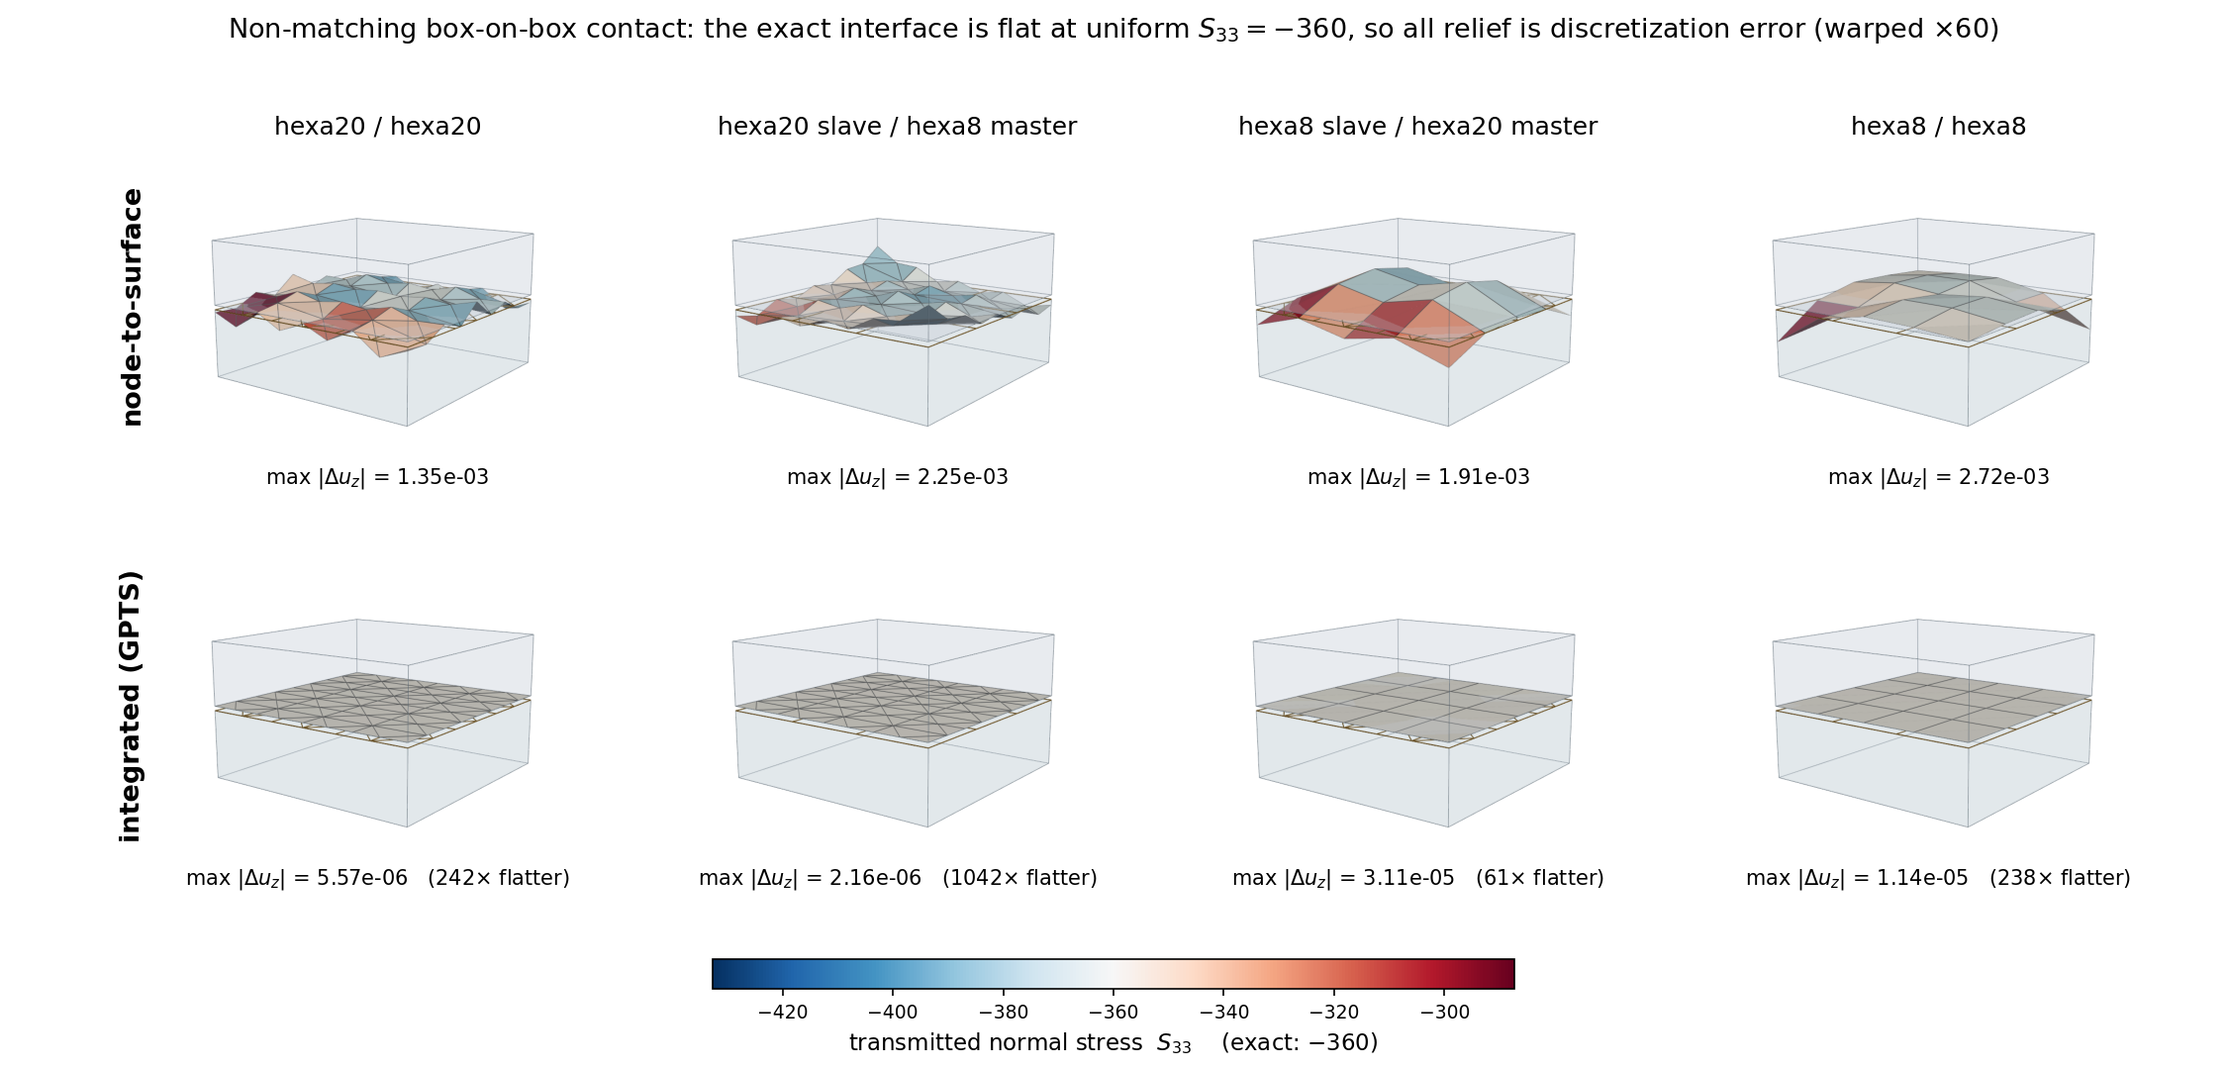
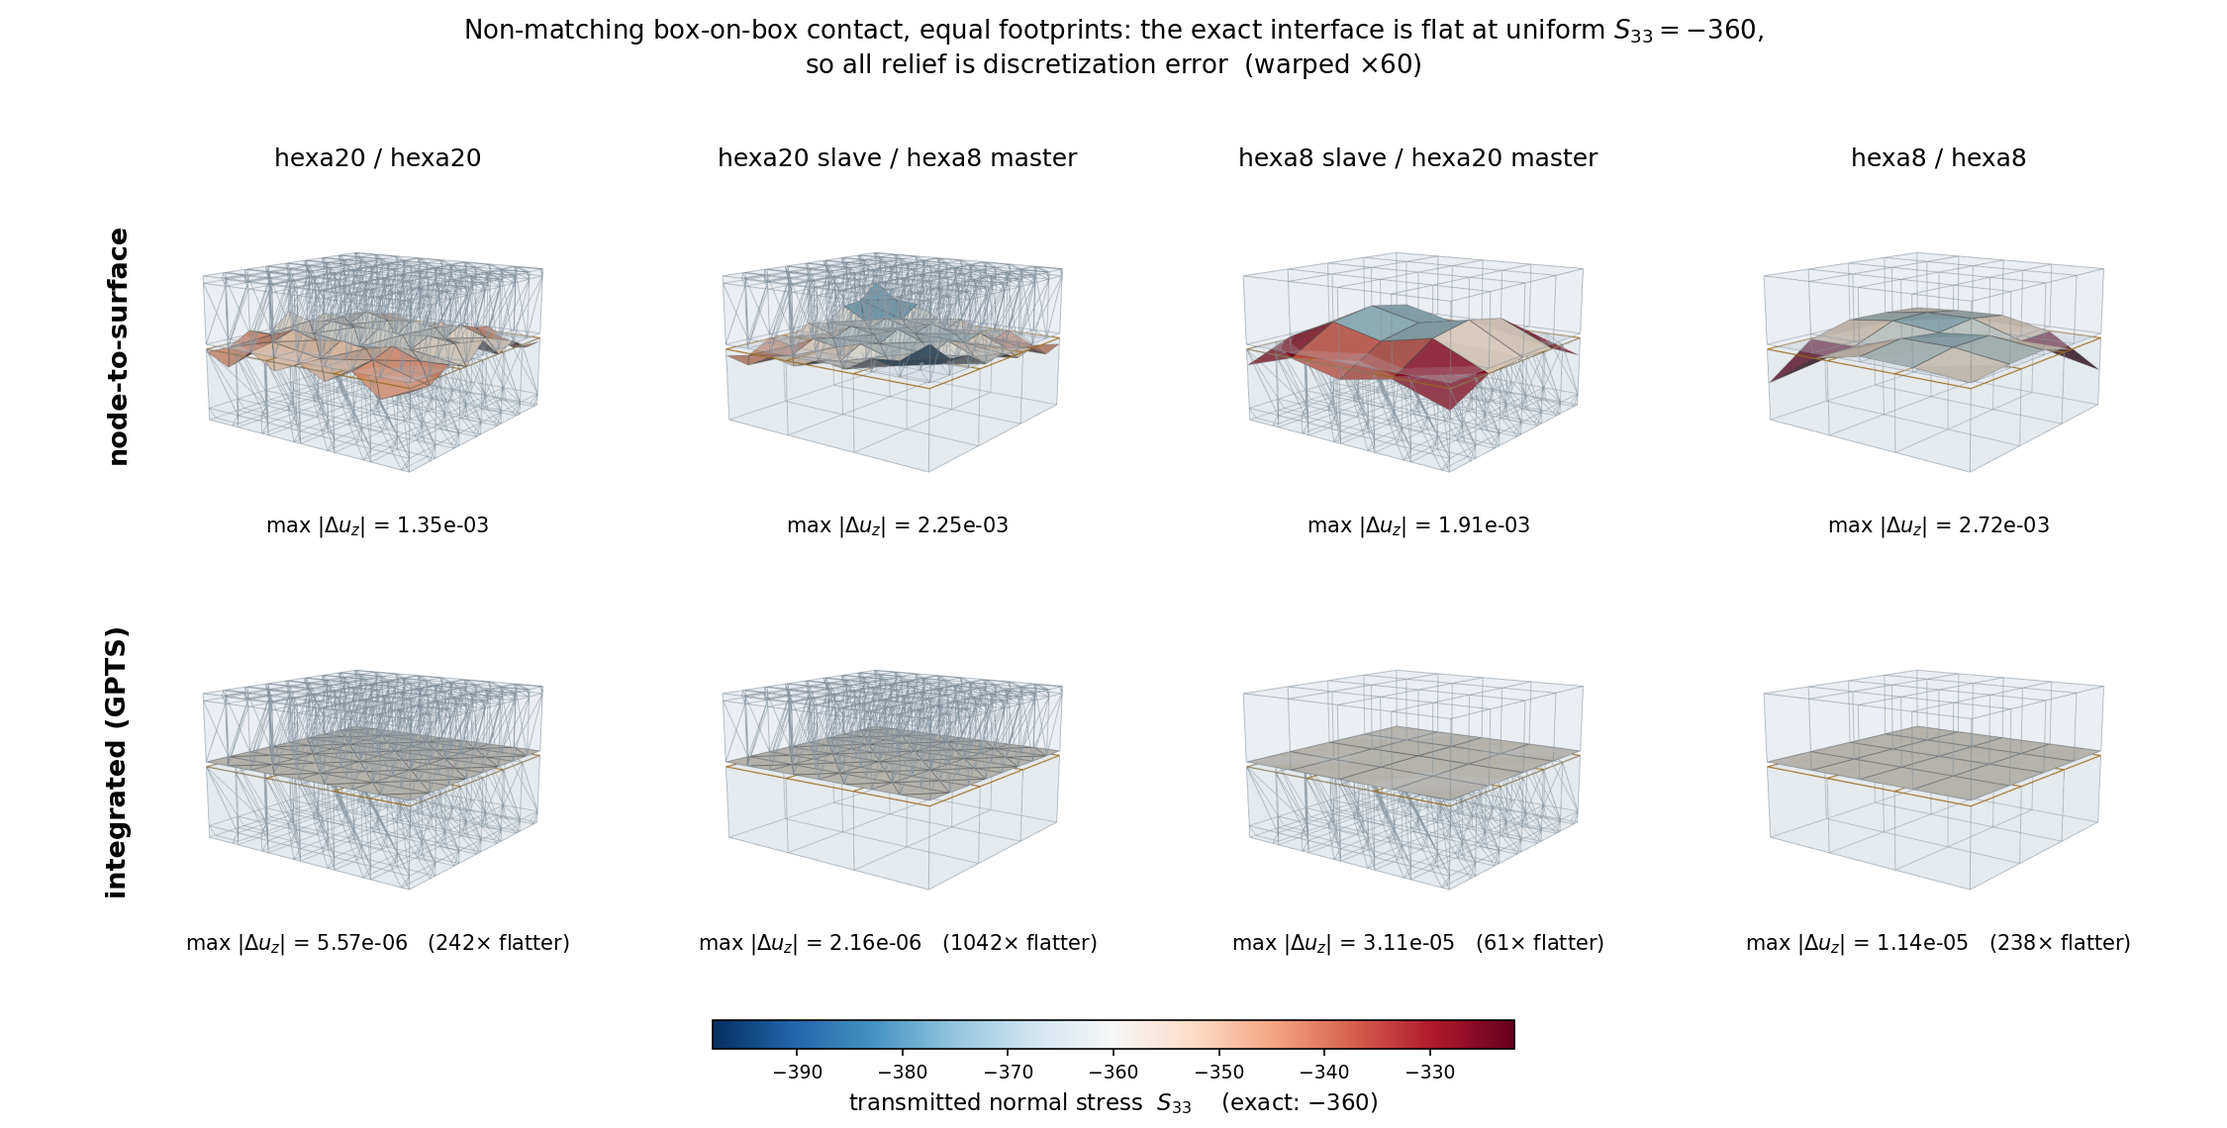
docs(contact): add element gridlines, a free-patch-boundary study, and fix a sampling bias
Three changes, the last of which corrects the figure rather than extending it.

Gridlines. The blocks previously had their element edges suppressed, so the meshes could not be
judged at all -- which defeats the point of a figure about non-matching discretizations. Both the
translucent skin and the gridlines now come from a LINEAR copy of each block. Rendering a hexa20
grid directly makes VTK tessellate every quadratic face into triangles, and those seams show
through the translucency as a mesh of diagonals unrelated to the discretization; it made the hexa20
columns look far more finely meshed than the hexa8 ones. The linear copy carries one edge per
element edge (verified: 104 for both orders on this mesh).

A second study, contact_overhang_comparison.png: the same eight models with the lower block 50%
wider in plan, so the contact patch acquires a free boundary. The exact interface is then neither
flat nor uniform -- a punch-like corner and edge concentration is physically correct -- so that
figure compares the formulations with each other rather than against a known answer, and the
flatness ratio is deliberately suppressed there because it would divide error by physics.

Its finding is a useful negative one: both formulations reproduce the same physical pattern, with
the patch corners carrying the highest compression and the centre the least, and the interface
deviation agrees to within a factor of two (5.47e-3 against 5.06e-3 for hexa20/hexa20). Where the
[…]

diff --git a/doc/figures/contact_nonmatching_comparison.py b/doc/figures/contact_nonmatching_comparison.py
@@ -54,10 +54,16 @@ import pyvista as pv
 
 SIGMA_EXACT = -360.0
 SZZ = 2  # Voigt index of S33 in the element's stress vector
-WARP = 60.0
 #: Half-height of the slab of each block kept around the interface, see renderPanel.
 SLAB = 0.30
 N_LOWER, N_UPPER = 3, 4
+
+#: Integration points per element type, from edelweissfe.elements.displacementelement.element's
+#: element library. The stress field is averaged over all of them: exporting quadraturePoint=0
+#: samples one CORNER point per element, which biases the sample directionally and showed up as a
+#: spurious diagonal gradient across an entirely symmetric model. Element-averaged S33 on the
+#: matched, uniformly compressed patch test comes out at -359.89 with zero spread, i.e. exact.
+N_INT = {"C3D8": 8, "C3D20": 27}
 
 CASES = [
     ("h20-h20", "hexa20 / hexa20", "C3D20", "C3D20"),
@@ -70,10 +76,7 @@ CONSTRAINTS = [
     ("gpts", "integrated (GPTS)", "surfaceToDeformableSurfacePenalty"),
 ]
 
-TPL = """** Non-matching box-on-box contact, for the documentation figure.
-** Lower block {nL}x{nL}x2, upper block {nU}x{nU}x2, so the interface meshes do not match.
-** nu = 0 and a uniform imposed compression, so the exact interface state is a flat interface at
-** uniform pressure -- every departure visible in the figure is discretization error.
+TPL = """** Auto-generated by doc/figures/contact_nonmatching_comparison.py -- do not edit by hand.
 *material, name=LinearElastic, id=le, provider=edelweiss
 1.8e4, 0.0
 
@@ -84,11 +87,11 @@ TPL = """** Non-matching box-on-box contact, for the documentation figure.
 nX      ={nL}
 nY      ={nL}
 nZ      =2
-x0      =0
-y0      =0
+x0      ={x0L}
+y0      ={y0L}
 z0      =0
-lX      =1
-lY      =1
+lX      ={lL}
+lY      ={lL}
 lZ      =1
 elProvider =edelweiss
 elType  ={etL}
@@ -127,8 +130,8 @@ searchDistance=1.0, sliding=small
 *fieldOutput
 >>perNode, elSet=lower_all, field=displacement, result=U, name=dispLower
 >>perNode, elSet=upper_all, field=displacement, result=U, name=dispUpper
->>perElement, elSet=lower_all, result=stress, name=stressLower, quadraturePoint=0
->>perElement, elSet=upper_all, result=stress, name=stressUpper, quadraturePoint=0
+>>perElement, elSet=lower_all, result=stress, name=stressLower, quadraturePoint=0:{nIntL}, f(x)='np.mean(x, axis=1)'
+>>perElement, elSet=upper_all, result=stress, name=stressUpper, quadraturePoint=0:{nIntU}, f(x)='np.mean(x, axis=1)'
 >>perNode, name=RFNormal, nSet=lower_back, field=displacement, result=P, f(x)='sum(x[:,2])', saveHistory=True
 >>perNode, name=Uzspread, nSet=slaveSurf_nodes, field=displacement, result=U, f(x)='np.max(x[:,2])-np.min(x[:,2])', saveHistory=True
 
@@ -149,29 +152,34 @@ maxInc=0.25, minInc=1e-6, maxNumInc=100, maxIter=25, stepLength=1
 >>dirichlet, name=pushUpper, nSet=upper_front, field=displacement, 1=0.0, 2=0.0, 3=-0.06
 """
 
-
-def runCases(workDir: pathlib.Path) -> dict:
-    """Write and run every model, returning its run directory by (case, constraint) tag."""
-
-    dirs = {}
-    for tag, _, etL, etU in CASES:
-        for ctag, _, ctype in CONSTRAINTS:
-            d = workDir / f"{tag}_{ctag}"
-            d.mkdir(parents=True, exist_ok=True)
-            (d / "test.inp").write_text(TPL.format(nL=N_LOWER, nU=N_UPPER, etL=etL, etU=etU, ctype=ctype))
-            log = subprocess.run(
-                ["edelweissfe", "test.inp"],
-                cwd=d,
-                capture_output=True,
-                text=True,
-                env=dict(os.environ, MPLBACKEND="Agg"),
-                timeout=1800,
-            )
-            (d / "run.log").write_text(log.stdout + log.stderr)
-            if not list(d.glob("esExport*.case")):
-                raise RuntimeError(f"{d.name} produced no Ensight output; see its run.log")
-            dirs[(tag, ctag)] = d
-    return dirs
+#: The two studies. 'flush' keeps both footprints equal, so the exact solution is a flat interface
+#: at uniform stress and every feature of the figure is discretization error. 'overhang' widens the
+#: lower block by 50% in plan, which puts a FREE BOUNDARY around the contact patch: the exact
+#: solution is then no longer uniform, so that figure compares the two formulations with each other
+#: rather than against a known answer.
+STUDIES = [
+    {
+        "key": "nonmatching",
+        "geometry": dict(x0L=0.0, y0L=0.0, lL=1.0),
+        "warp": 60.0,
+        "exact": SIGMA_EXACT,
+        "title": (
+            "Non-matching box-on-box contact, equal footprints: the exact interface is flat at "
+            "uniform $S_{33}=-360$,\nso all relief is discretization error"
+        ),
+    },
+    {
+        "key": "overhang",
+        "geometry": dict(x0L=-0.25, y0L=-0.25, lL=1.5),
+        "warp": 25.0,
+        "exact": None,
+        "title": (
+            "Lower block 50% wider in plan: the contact patch now has a free boundary, so the exact "
+            "interface is\nneither flat nor uniform -- here the two formulations are compared with "
+            "each other, not against an exact answer"
+        ),
+    },
+]
 
 
 def staticCase(runDir: str) -> str:
@@ -202,7 +210,7 @@ def staticCase(runDir: str) -> str:
 def blocks(runDir: str):
     """The two solid blocks and the master interface, in the reference configuration, as context.
 
-    Reference rather than deformed: the interface relief is exaggerated by WARP to be visible at
+    Reference rather than deformed: the interface relief is exaggerated to be visible at
     all, and deforming the blocks by the same factor would distort them grossly (the imposed
     compression is 6% of a block height). They are drawn translucent, so they read as the setting
     for the interface rather than as a result themselves -- and their edges are what show the two
@@ -212,8 +220,10 @@ def blocks(runDir: str):
     m = pv.read(staticCase(runDir))
     lower, upper = m["lower_all"], m["upper_all"]
 
-    # the lower block's top face: the master interface, whose mesh does not match the slave's
-    surf = lower.extract_surface(algorithm="dataset_surface")
+    # The lower block's top face: the master interface, whose mesh does not match the slave's.
+    # Taken from a LINEAR copy so its gridlines are one line per element edge rather than the
+    # diagonals a tessellated hexa20 face would produce.
+    surf = lower.linear_copy().extract_surface(algorithm="dataset_surface")
     keep = np.flatnonzero(np.abs(surf.points[:, 2] - surf.points[:, 2].max()) < 1e-9)
     masterFace = surf.extract_points(keep, adjacent_cells=False).extract_surface(algorithm="dataset_surface")
     return lower, upper, masterFace
@@ -235,7 +245,7 @@ def interfaceSurface(runDir: str):
     return iface
 
 
-def renderPanel(surface, context, clim) -> np.ndarray:
+def renderPanel(surface, context, clim, warp: float) -> np.ndarray:
     """Render one interface, in the setting of its two blocks, to an RGB array.
 
     Framing is fixed and identical for every panel, and deliberately NOT cropped to content: a
@@ -265,12 +275,26 @@ def renderPanel(surface, context, clim) -> np.ndarray:
 
     p = pv.Plotter(off_screen=True, window_size=(820, 560), border=False)
     p.enable_depth_peeling(number_of_peels=10, occlusion_ratio=0.0)
-    for block, opacity in ((lower, 0.30), (upper, 0.22)):
-        p.add_mesh(block, color="#c4ced6", opacity=opacity, show_edges=False, lighting=False)
-        p.add_mesh(block.extract_feature_edges(), color="#5d6a74", line_width=1)
-    p.add_mesh(masterFace, style="wireframe", color="#8a6a2f", line_width=2)
+    for block, opacity in ((lower, 0.26), (upper, 0.18)):
+        # Both the translucent skin and the gridlines come from a LINEAR copy of the block, whose
+        # faces are quadrilaterals. Rendering a hexa20 grid directly makes VTK tessellate every
+        # quadratic face into triangles, and their seams show through the translucency as a mesh of
+        # diagonals that has nothing to do with the discretization -- it made the hexa20 columns
+        # look far more finely meshed than the hexa8 ones, which is precisely the comparison the
+        # gridlines exist to support. The linear copy carries one edge per element edge (verified:
+        # 104 for both orders on this mesh).
+        linear = block.linear_copy()
+        p.add_mesh(
+            linear.extract_surface(algorithm="dataset_surface"),
+            color="#c4ced6",
+            opacity=opacity,
+            show_edges=False,
+            lighting=False,
+        )
+        p.add_mesh(linear.extract_all_edges(), color="#7c8a95", line_width=1)
+    p.add_mesh(masterFace.extract_all_edges(), color="#9a6b1f", line_width=2)
     p.add_mesh(
-        surface.warp_by_scalar("dUz", factor=WARP),
+        surface.warp_by_scalar("dUz", factor=warp),
         scalars="szz",
         cmap="RdBu_r",
         clim=clim,
@@ -287,7 +311,44 @@ def renderPanel(surface, context, clim) -> np.ndarray:
     return img
 
 
-def main(outPath: str, runDirs: dict):
+def runCases(workDir: pathlib.Path, geometry: dict) -> dict:
+    """Write and run every model of one study, returning its run directory by (case, constraint)."""
+
+    dirs = {}
+    for tag, _, etL, etU in CASES:
+        for ctag, _, ctype in CONSTRAINTS:
+            d = workDir / f"{tag}_{ctag}"
+            d.mkdir(parents=True, exist_ok=True)
+            (d / "test.inp").write_text(
+                TPL.format(
+                    nL=N_LOWER,
+                    nU=N_UPPER,
+                    etL=etL,
+                    etU=etU,
+                    nIntL=N_INT[etL],
+                    nIntU=N_INT[etU],
+                    ctype=ctype,
+                    **geometry,
+                )
+            )
+            log = subprocess.run(
+                ["edelweissfe", "test.inp"],
+                cwd=d,
+                capture_output=True,
+                text=True,
+                env=dict(os.environ, MPLBACKEND="Agg"),
+                timeout=1800,
+            )
+            (d / "run.log").write_text(log.stdout + log.stderr)
+            if not list(d.glob("esExport*.case")):
+                raise RuntimeError(f"{d.name} produced no Ensight output; see its run.log")
+            dirs[(tag, ctag)] = d
+    return dirs
+
+
+def composeFigure(outPath: str, runDirs: dict, study: dict):
+    """Lay the eight panels of one study out with matplotlib and write the PNG."""
+
     import matplotlib
 
     matplotlib.use("Agg")
@@ -301,23 +362,31 @@ def main(outPath: str, runDirs: dict):
         contexts[(tag, ctag)] = blocks(str(d))
         amps[(tag, ctag)] = float(np.abs(s.point_data["dUz"]).max())
 
-    spread = max(float(np.abs(np.asarray(s.cell_data["szz"]) - SIGMA_EXACT).max()) for s in surfaces.values())
-    clim = (SIGMA_EXACT - spread, SIGMA_EXACT + spread)
+    allSzz = np.concatenate([np.asarray(s.cell_data["szz"]) for s in surfaces.values()])
+    if study["exact"] is not None:
+        spread = float(np.abs(allSzz - study["exact"]).max())
+        clim = (study["exact"] - spread, study["exact"] + spread)
+        barLabel = f"transmitted normal stress  $S_{{33}}$    (exact: ${study['exact']:.0f}$)"
+    else:
+        clim = (float(allSzz.min()), float(allSzz.max()))
+        barLabel = "transmitted normal stress  $S_{33}$    (no exact value: free patch boundary)"
 
-    fig = plt.figure(figsize=(15.0, 7.2), dpi=150)
-    gs = fig.add_gridspec(2, 4, left=0.055, right=0.985, top=0.855, bottom=0.20, wspace=0.02, hspace=0.34)
+    fig = plt.figure(figsize=(15.0, 7.6), dpi=150)
+    gs = fig.add_gridspec(2, 4, left=0.055, right=0.985, top=0.835, bottom=0.185, wspace=0.02, hspace=0.32)
 
     for j, (tag, title, _, _) in enumerate(CASES):
         for i, (ctag, rowName, _) in enumerate(CONSTRAINTS):
             ax = fig.add_subplot(gs[i, j])
-            ax.imshow(renderPanel(surfaces[(tag, ctag)], contexts[(tag, ctag)], clim))
+            ax.imshow(renderPanel(surfaces[(tag, ctag)], contexts[(tag, ctag)], clim, study["warp"]))
             ax.set_axis_off()
             if i == 0:
                 ax.set_title(title, fontsize=12, pad=10)
-            gain = amps[(tag, "node")] / amps[(tag, ctag)]
             note = f"max |$\\Delta u_z$| = {amps[(tag, ctag)]:.2e}"
-            if ctag == "gpts":
-                note += f"   ({gain:.0f}$\\times$ flatter)"
+            if ctag == "gpts" and study["exact"] is not None:
+                # Only meaningful where the exact interface IS flat, so that the whole deviation is
+                # error. With a free patch boundary the interface is genuinely not flat and the
+                # ratio would compare error against physics.
+                note += f"   ({amps[(tag, 'node')] / amps[(tag, ctag)]:.0f}$\\times$ flatter)"
             ax.text(0.5, -0.04, note, transform=ax.transAxes, ha="center", va="top", fontsize=10)
             if j == 0:
                 ax.text(
@@ -332,28 +401,25 @@ def main(outPath: str, runDirs: dict):
                     fontweight="bold",
                 )
 
-    cax = fig.add_axes([0.32, 0.075, 0.36, 0.028])
+    cax = fig.add_axes([0.32, 0.070, 0.36, 0.026])
     cb = fig.colorbar(cm.ScalarMappable(norm=colors.Normalize(*clim), cmap="RdBu_r"), cax=cax, orientation="horizontal")
-    cb.set_label("transmitted normal stress  $S_{33}$    (exact: $-360$)", fontsize=11)
+    cb.set_label(barLabel, fontsize=11)
     cb.ax.tick_params(labelsize=9)
 
-    fig.suptitle(
-        "Non-matching box-on-box contact: the exact interface is flat at uniform $S_{33}=-360$, "
-        f"so all relief is discretization error (warped $\\times${WARP:.0f})",
-        fontsize=13,
-        y=0.985,
-    )
+    fig.suptitle(f"{study['title']}  (warped $\\times${study['warp']:.0f})", fontsize=12.5, y=0.985)
     fig.savefig(outPath, facecolor="white")
     print(f"wrote {outPath}")
-    print(f"  S33 range: {clim[0]:.1f} .. {clim[1]:.1f}")
     for k, v in sorted(amps.items(), key=lambda kv: -kv[1]):
-        print(f"  {k[0]:<20} {k[1]:<5} max|du_z| = {v:.3e}")
+        print(f"    {k[0]:<20} {k[1]:<5} max|du_z| = {v:.3e}")
 
 
 if __name__ == "__main__":
-    target = pathlib.Path(__file__).resolve().parents[1] / "source" / "contact_nonmatching_comparison.png"
-    work = pathlib.Path(tempfile.mkdtemp(prefix="edelweiss-contact-figure-"))
-    try:
-        main(str(target), runCases(work))
-    finally:
-        shutil.rmtree(work, ignore_errors=True)
+    target = pathlib.Path(__file__).resolve().parents[1] / "source"
+    for study in STUDIES:
+        work = pathlib.Path(tempfile.mkdtemp(prefix=f"edelweiss-contact-{study['key']}-"))
+        try:
+            composeFigure(
+                str(target / f"contact_{study['key']}_comparison.png"), runCases(work, study["geometry"]), study
+            )
+        finally:
+            shutil.rmtree(work, ignore_errors=True)

diff --git a/doc/source/documentation/contacttheory.rst b/doc/source/documentation/contacttheory.rst
@@ -385,7 +385,12 @@ demands. The patch test passes on hexa20 exactly as it does on hexa8.
 
     The slave interface is warped by its own :math:`u_z` deviation from the interface mean, whose
     exact value is zero, so the *geometry* answers "is the interface flat?" while the *colour*
-    answers "is the transmitted stress uniform?". The two bodies are drawn translucent for context,
+    answers "is the transmitted stress uniform?". The stress is averaged over *all* of an element's
+    integration points: exporting a single one samples a corner point and biases the sample
+    directionally, which showed up as a spurious diagonal gradient across an entirely symmetric
+    model and inflated the apparent stress error roughly twofold. The two bodies are drawn
+    translucent for context, with element gridlines taken from a linear copy of each block so the
+    two discretizations can be compared,
     clipped to a slab around the interface -- whole blocks leave the interface occupying a sixth of
     the frame and wash its colour out -- and the master interface is overlaid as a wireframe, since
     the warped surface shows only the slave mesh and the non-matching discretization would
@@ -405,6 +410,26 @@ the slave facet is simply a better approximation of the transferred load than lu
 slave nodes, quite apart from any question about negative corner weights. Serendipity faces are
 where node-based contact fails *qualitatively*; non-matching meshes are where it fails
 *quantitatively*, whatever the element order.
+
+A second study replaces the equal footprints with a lower block 50% wider in plan, so the contact
+patch acquires a **free boundary**:
+
+.. figure:: ../contact_overhang_comparison.png
+    :width: 100%
+    :align: center
+
+    The same eight models with the lower block widened by 50% in plan. The exact interface is now
+    neither flat nor uniform -- a punch-like corner and edge concentration is *physically* correct
+    here -- so this figure compares the two formulations with each other rather than against a
+    known answer, and no flatness ratio is quoted for that reason.
+
+Its result is a useful negative one. Both rows reproduce the same physical pattern, corners of the
+patch carrying the highest compression and the centre the least, and the interface deviation agrees
+to within a factor of two between the formulations (5.47e-3 against 5.06e-3 for hexa20/hexa20).
+Where the geometry itself concentrates the transmitted stress, that concentration dominates the
+discretization error and the choice of contact formulation matters comparatively little. The
+formulation matters where the interface *ought* to transmit uniformly -- which is the regime of the
+first figure, and of a bearing surface.
 
 Note also that ``hexa8 slave / hexa20 master`` is the weakest of the four integrated cases (61x
 rather than several hundred). That is the slave-side sampling asymmetry: the quadrature points live
